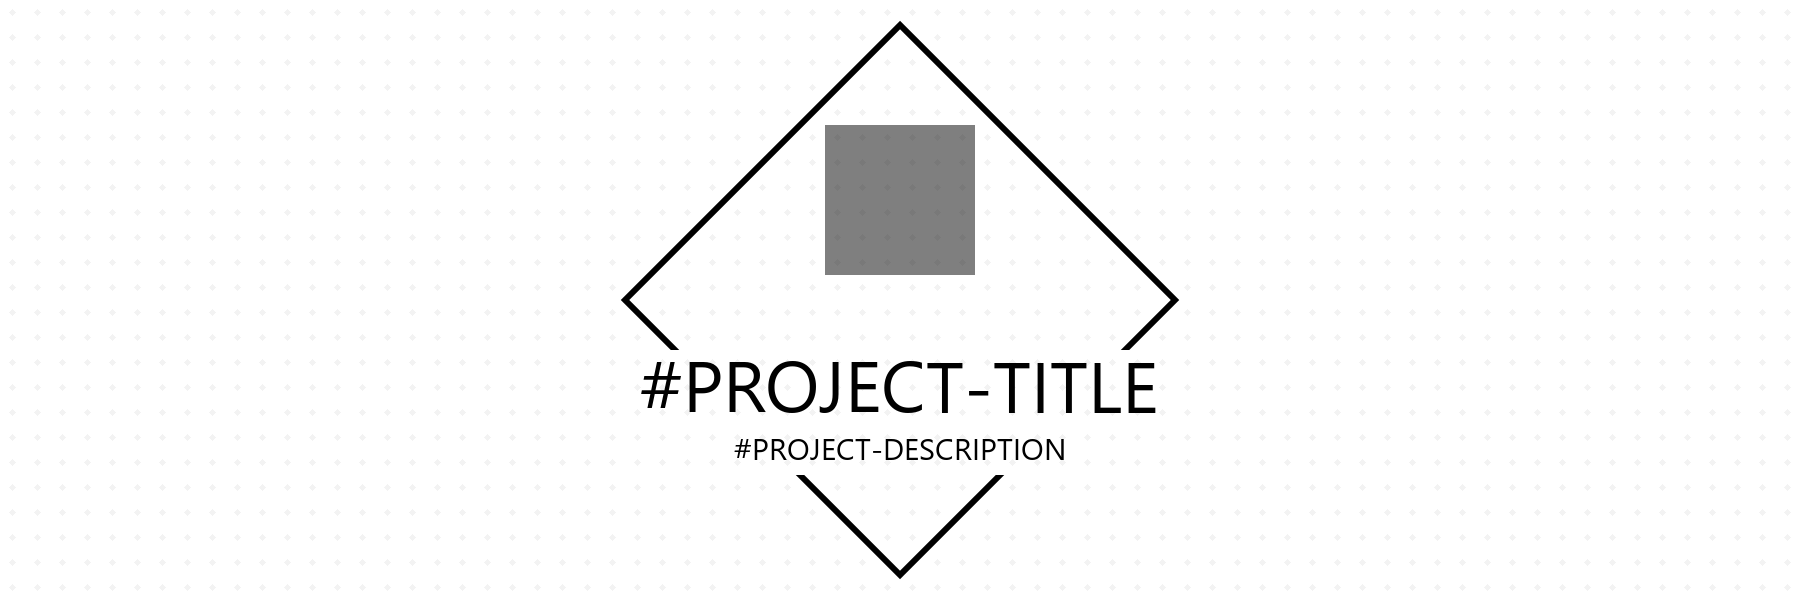
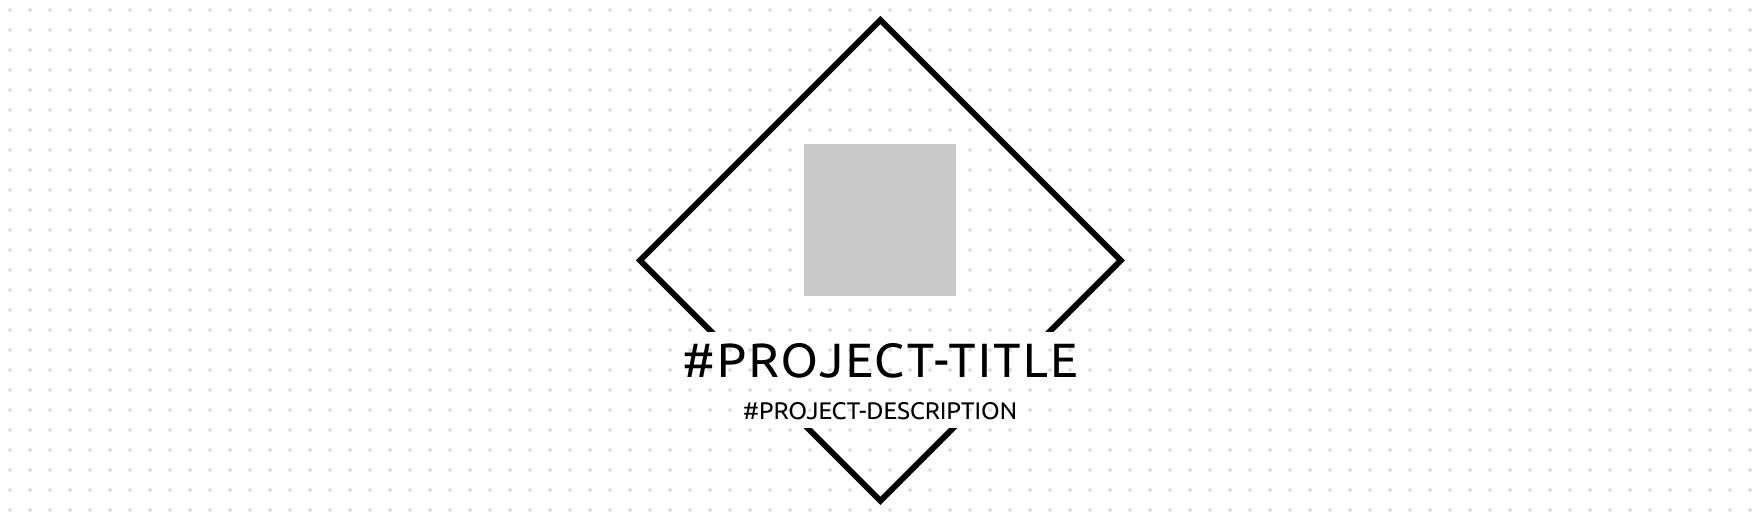
Updated project-title README

Changed region(s): [[0.3438, 0.0923, 0.6562, 0.8615], [0.4688, 0.8615, 0.5312, 0.9538], [0.5, 0.0308, 0.5312, 0.0615]]

diff --git a/src/project-title/README.md b/src/project-title/README.md
@@ -4,7 +4,7 @@ This template is saved as `.fig` format, which is native to [Figma](https://www.
 
 ## Showcase
 
-![project-title](../../docs/.assets/project-title/showcase.png)
+![showcase](../../docs/.assets/project-title/showcase.png)
 
 ## Usage
 
@@ -12,16 +12,20 @@ This template is saved as `.fig` format, which is native to [Figma](https://www.
 
 ![layers](../../docs/.assets/project-title/layers.png)
 
-- `green` - no action required
-- `orange` - action required
-- `red` - do not include these layers when exporting
-
 ### Editing
 
-- Use the `_placeholder--logo` layer as a guide to insert a project logo (`150px by 150px`)
-- Use the colour picker tool to pick out the primary/dominant colour from the project logo and fill `shape--diamond`
-- Update the text for `project-title` and `project-description` as appropriate
+#### Icon
+
+Use the `project-icon` frame layer as a guide to insert a project logo (`152px by 152px`).
+
+#### Local Styles
+
+Update the `Primary Border` local style to the primary/dominant colour from the project logo.
+
+![local-styles](../../docs/.assets/project-title/local-styles.png)
 
 ### Exporting
 
-Ensure all the `red` layers are hidden and export as `.png` with transparency.
+Select the `project-title` root frame layer and ensure that the `Fill` property is hidden. Use the `Export` section at the bottom, with `PNG` format selected.
+
+![export](../../docs/.assets/project-title/export.png)
